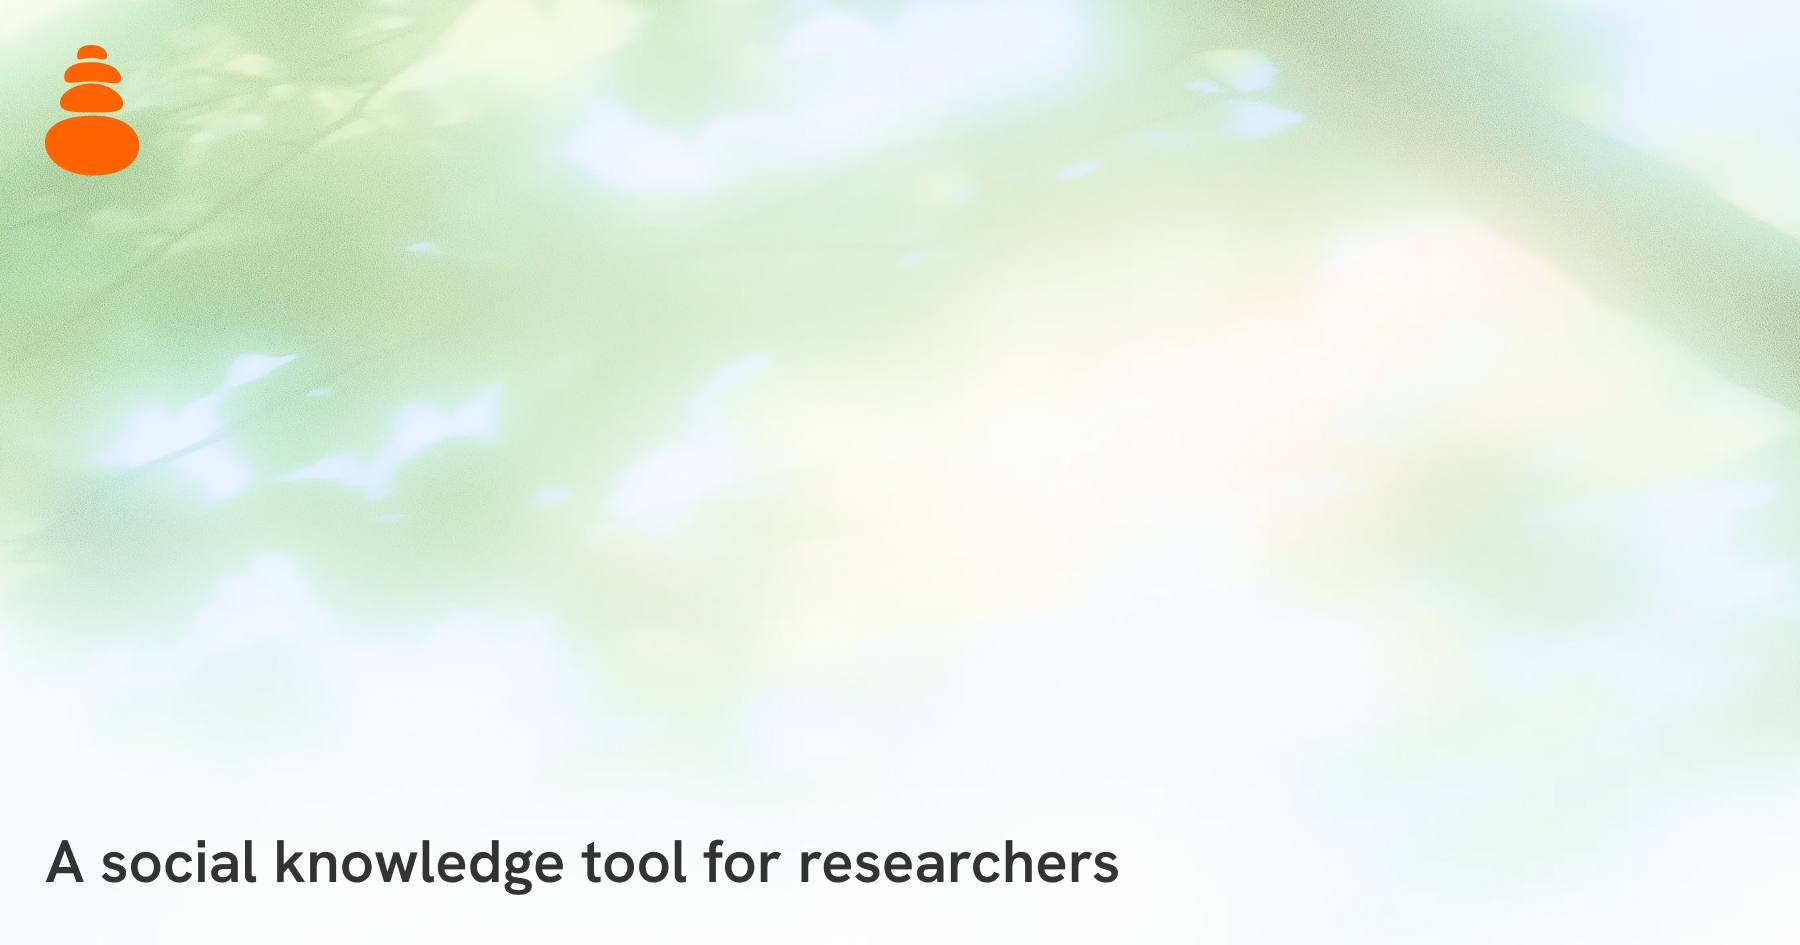
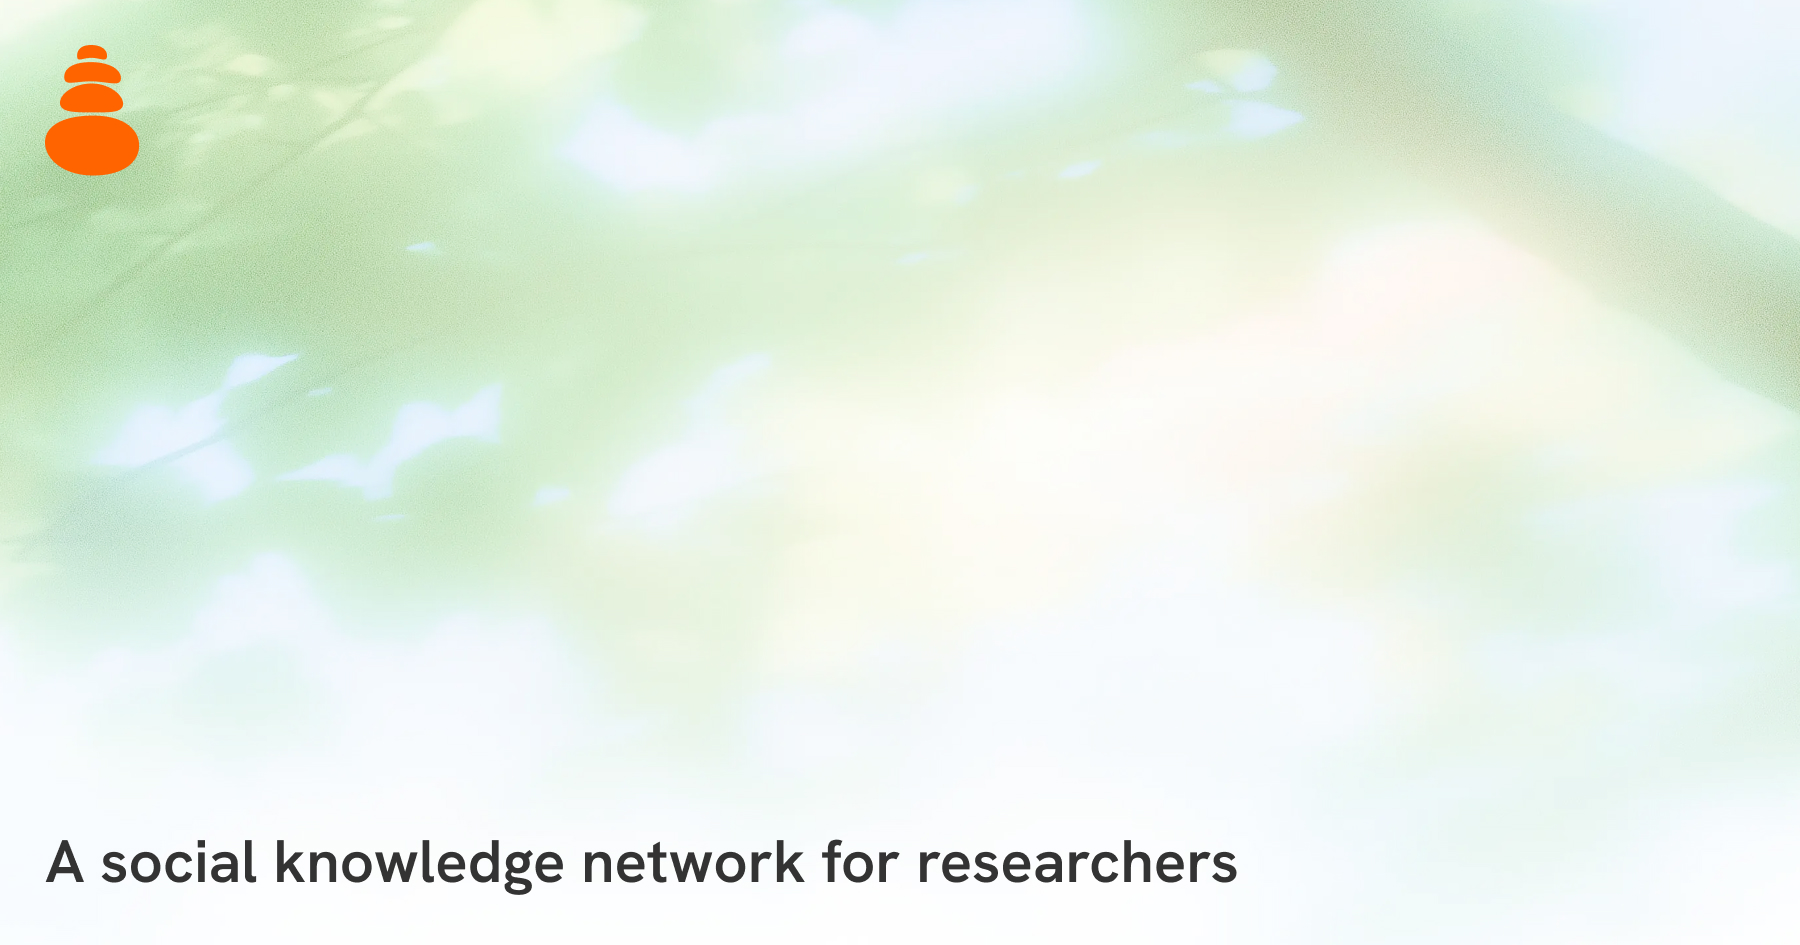
feat: update tagline

Changed region(s): [[0.3111, 0.8899, 0.6844, 0.9513]]

diff --git a/src/webapp/components/LandingPage.tsx b/src/webapp/components/LandingPage.tsx
@@ -36,7 +36,7 @@ export default function LandingPage() {
               <Stack gap={'xs'} align="center" maw={550} mx={'auto'}>
                 <Image src={SembleLogo.src} alt="Semble logo" w={"auto"} h={60} />
                 <Title order={1} fw={600} fz={'3rem'} ta={'center'}>
-                  A social knowledge tool for researchers
+                  A social knowledge network for researchers
                 </Title>
                 <Title order={2} fw={600} fz={'xl'} c={'#1F6144'} ta={'center'}>
                   Follow your peers’ research trails. Surface and discover new

diff --git a/src/webapp/app/layout.tsx b/src/webapp/app/layout.tsx
@@ -11,7 +11,7 @@ import { theme } from '@/styles/theme';
 import { Hanken_Grotesk } from 'next/font/google';
 
 export const metadata: Metadata = {
-  title: 'Semble | A social knowledge tool for researchers',
+  title: 'Semble | A social knowledge network for researchers',
   description: `Follow your peers' research trails. Surface and discover new connections. Built on ATProto so you own your data.`,
 };
 

diff --git a/src/webapp/app/signup/page.tsx b/src/webapp/app/signup/page.tsx
@@ -22,7 +22,7 @@ export default function SignupPage() {
           </Title>
 
           <Text ta="center" c="dimmed" fz="lg">
-            A social knowledge tool for researchers
+            A social knowledge network for researchers
           </Text>
 
           <Box
